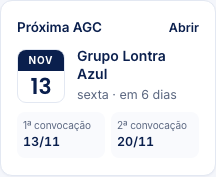
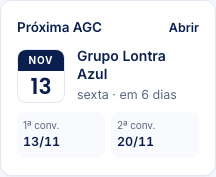
fix(INI-06): "1ª conv." no quadro da AGC estreito; o rótulo inteiro não cabia no Linux do CI
No QDR-16 com contêiner de 880px (unidade de 208px), o "2ª convocação" era cortado no CI: a
margem dependia da fonte. O leitor de tela continua ouvindo "convocação". Capturas do quadro
em 208 e 216px refeitas.

Claude-Session: https://claude.ai/code/session_01RPcRxmTRKb9Ywf1xED1isr

Changed region(s): [[0.6944, 0.678, 0.8611, 0.7345], [0.25, 0.678, 0.4167, 0.7345], [0.1389, 0.7062, 0.1667, 0.7345]]

diff --git a/src/modulos/inicio/quadros/QuadroAgc.module.css b/src/modulos/inicio/quadros/QuadroAgc.module.css
@@ -102,6 +102,10 @@
   text-overflow: ellipsis;
 }
 
+.curto {
+  display: none;
+}
+
 .convocacao dd {
   margin: 0;
   font-size: 12.5px;
@@ -110,7 +114,7 @@
   color: var(--cor-texto);
 }
 
-/* Corpo até 196px (unidade até ~230px): caixas mais justas para o "1ª convocação" caber inteiro. */
+/* Corpo até 196px (unidade até ~230px): caixas mais justas e o rótulo abreviado. */
 @container (max-width: 196px) {
   .convocacoes {
     gap: 6px;
@@ -123,5 +127,20 @@
   .convocacao dt {
     font-size: 10px;
     letter-spacing: -0.01em;
+  }
+
+  /* "1ª conv." na tela; o leitor de tela continua ouvindo "1ª convocação". A margem do texto
+     inteiro dependia da fonte (no Linux do CI, o "2ª convocação" não cabia). */
+  .longo {
+    position: absolute;
+    width: 1px;
+    height: 1px;
+    overflow: hidden;
+    clip-path: inset(50%);
+    white-space: nowrap;
+  }
+
+  .curto {
+    display: inline;
   }
 }

diff --git a/src/modulos/inicio/quadros/QuadroAgc.tsx b/src/modulos/inicio/quadros/QuadroAgc.tsx
@@ -66,11 +66,21 @@ export function QuadroAgc({ variante }: PropsDoQuadro) {
         </div>
         <dl className={estilos.convocacoes}>
           <div className={estilos.convocacao}>
-            <dt>1ª convocação</dt>
+            <dt>
+              1ª <span className={estilos.longo}>convocação</span>
+              <span className={estilos.curto} aria-hidden="true">
+                conv.
+              </span>
+            </dt>
             <dd>{diaEMes(agc.dataPrimeira)}</dd>
           </div>
           <div className={estilos.convocacao}>
-            <dt>2ª convocação</dt>
+            <dt>
+              2ª <span className={estilos.longo}>convocação</span>
+              <span className={estilos.curto} aria-hidden="true">
+                conv.
+              </span>
+            </dt>
             <dd>{diaEMes(agc.dataSegunda)}</dd>
           </div>
         </dl>

diff --git a/e2e/quadros-1x1.spec.ts b/e2e/quadros-1x1.spec.ts
@@ -31,8 +31,10 @@ test('QDR-02 · próxima AGC do seed, e o Abrir leva à AGC', async ({ page }) =
   const agc = quadro(page, 'Próxima AGC')
   await expect(agc).toContainText('Grupo Lontra Azul')
   await expect(agc).toContainText('sexta · em 6 dias')
-  await expect(agc).toContainText('1ª convocação13/11')
-  await expect(agc).toContainText('2ª convocação20/11')
+  await expect(agc.getByRole('term').first()).toContainText('1ª convocação')
+  await expect(agc.getByRole('definition').first()).toHaveText('13/11')
+  await expect(agc.getByRole('term').nth(1)).toContainText('2ª convocação')
+  await expect(agc.getByRole('definition').nth(1)).toHaveText('20/11')
 
   await agc.getByRole('link', { name: 'Abrir' }).click()
   await expect(page.getByRole('heading', { name: 'AGC de 13/11/2026', level: 1 })).toBeVisible()

diff --git a/src/modulos/inicio/quadros/quadros1x1.test.tsx b/src/modulos/inicio/quadros/quadros1x1.test.tsx
@@ -86,8 +86,10 @@ describe('Q-02 · próxima AGC', () => {
   it('QDR-02 · Grupo Lontra Azul, 13/11, "em 6 dias", 2ª convocação 20/11', async () => {
     const html = await renderizar(<QuadroAgc variante="desktop" />)
     expect(texto(html)).toContain(
-      'nov 13 Grupo Lontra Azul sexta · em 6 dias 1ª convocação 13/11 2ª convocação 20/11',
+      'nov 13 Grupo Lontra Azul sexta · em 6 dias 1ª convocação conv. 13/11 2ª convocação conv. 20/11',
     )
+    // "conv." é a forma curta do quadro estreito; o leitor de tela ouve só "convocação".
+    expect(html).toContain('aria-hidden="true">conv.</span>')
     expect(html).toMatch(/href="\/processos\/prc-001\/agc\/[\w-]+"[^>]*>Abrir</)
   })
 
